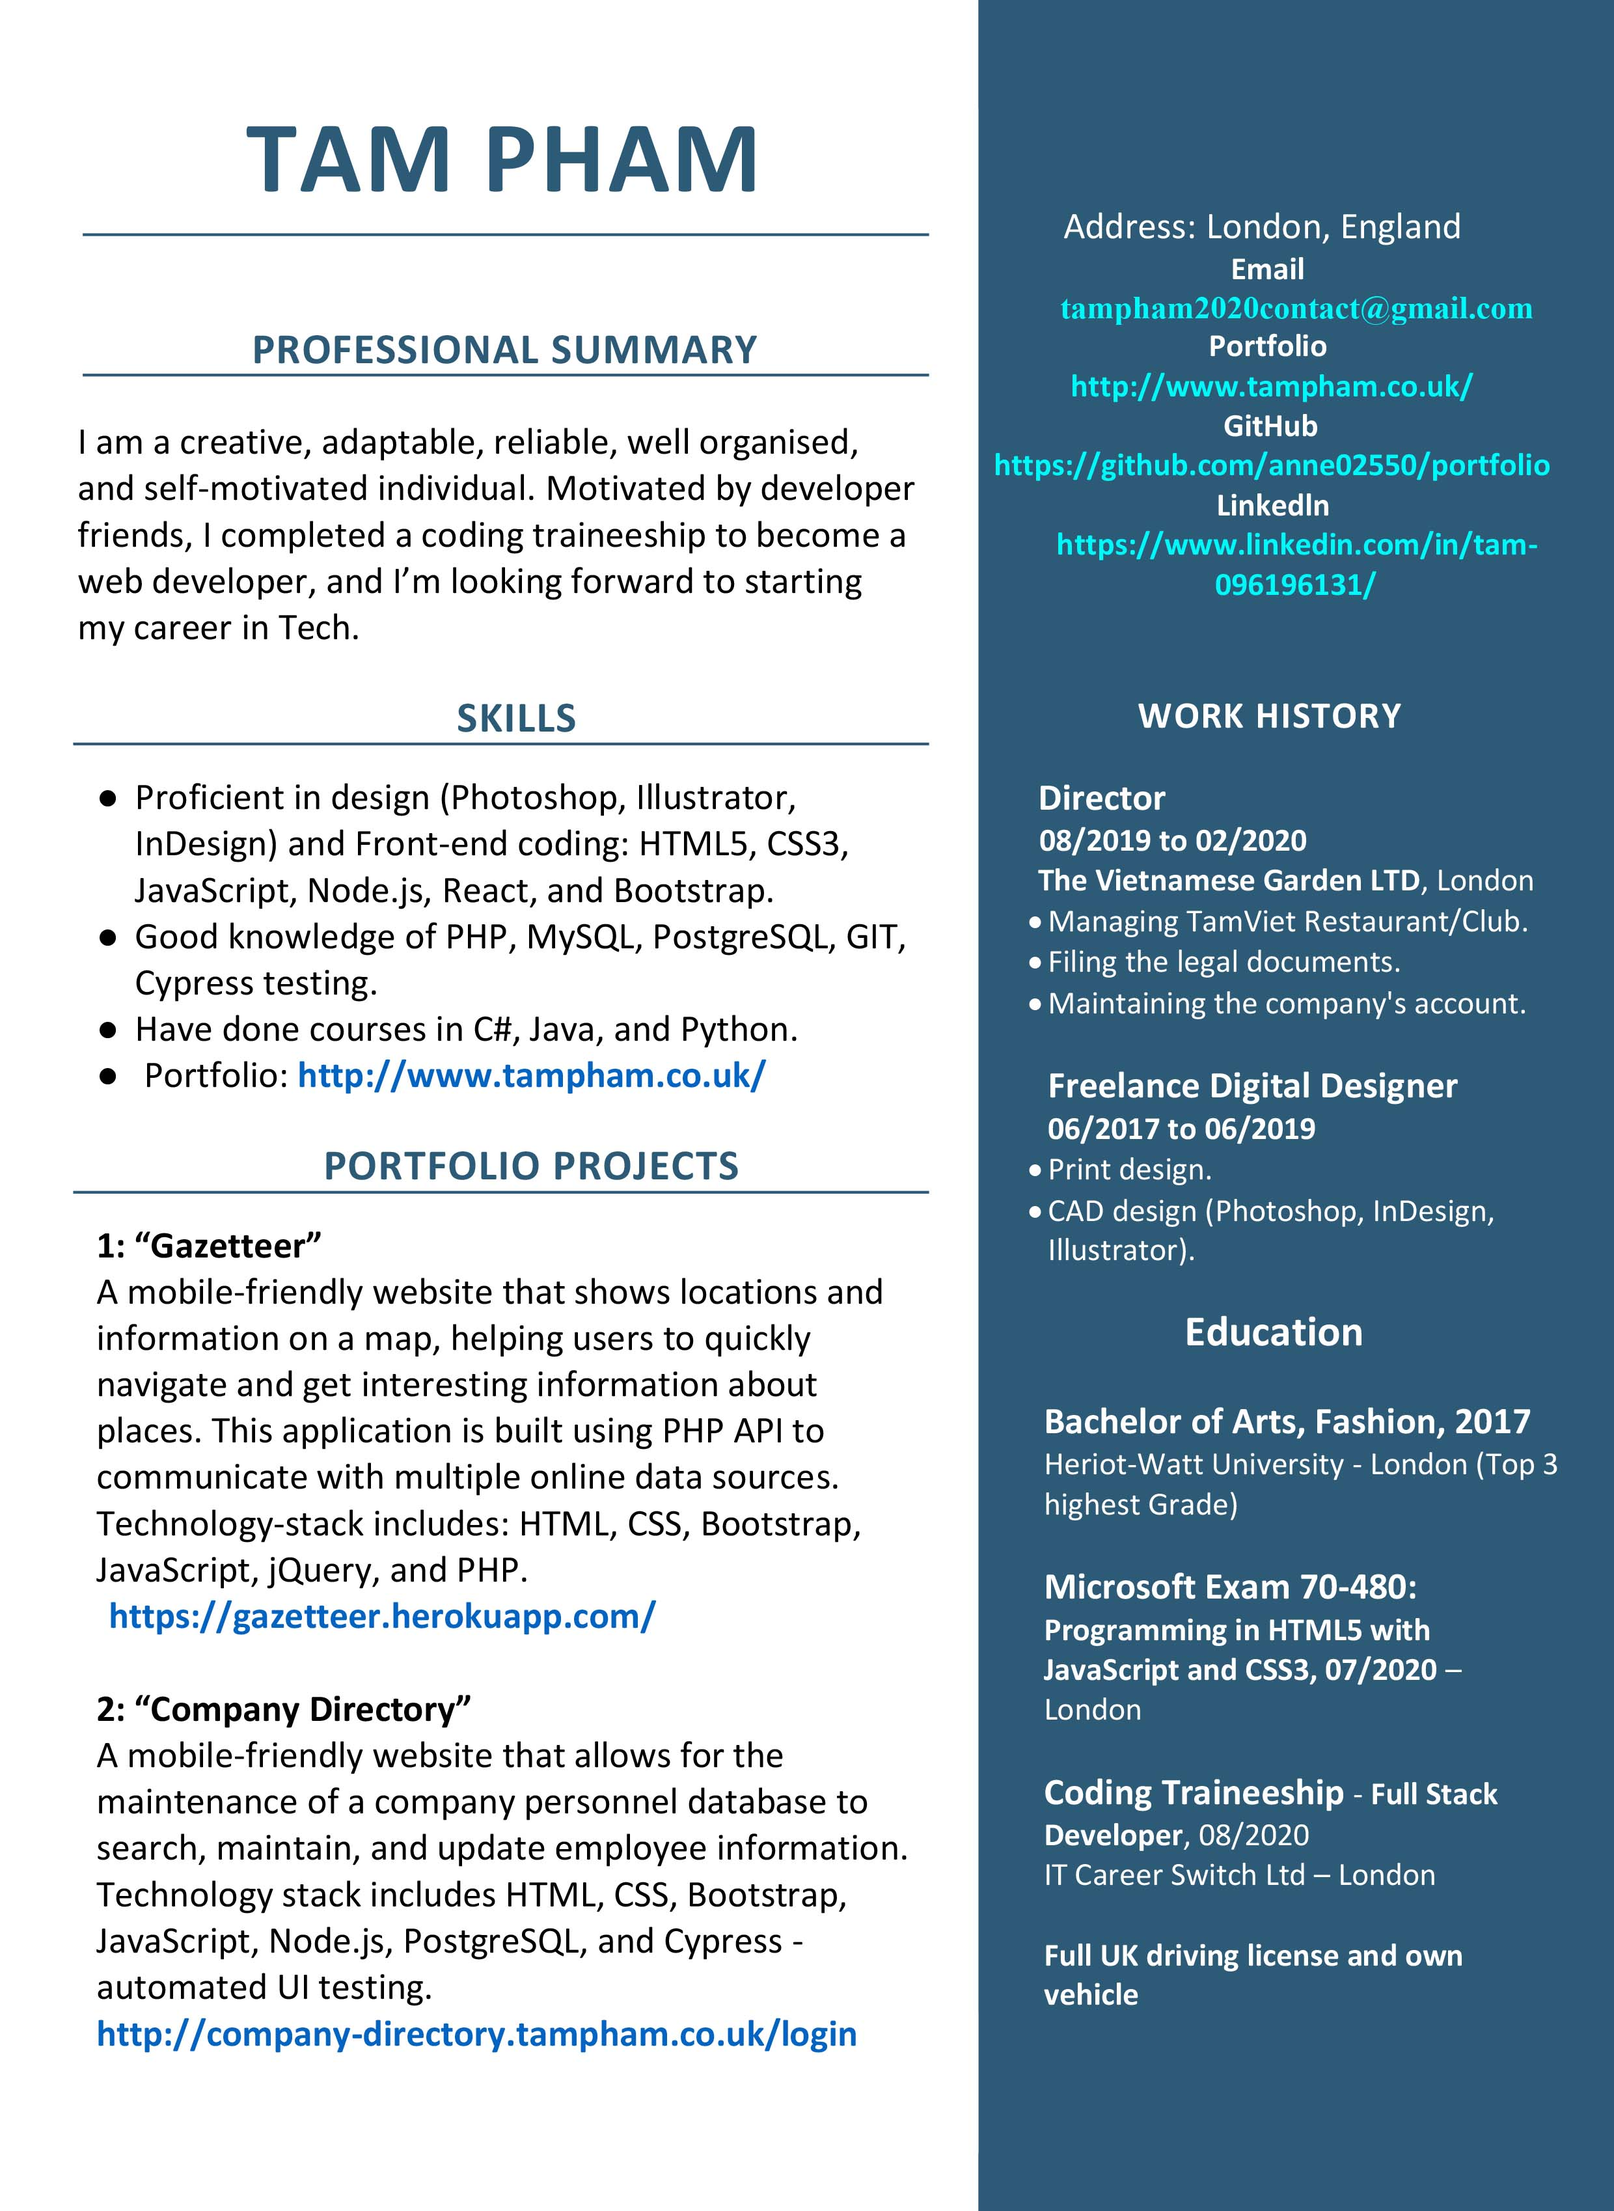
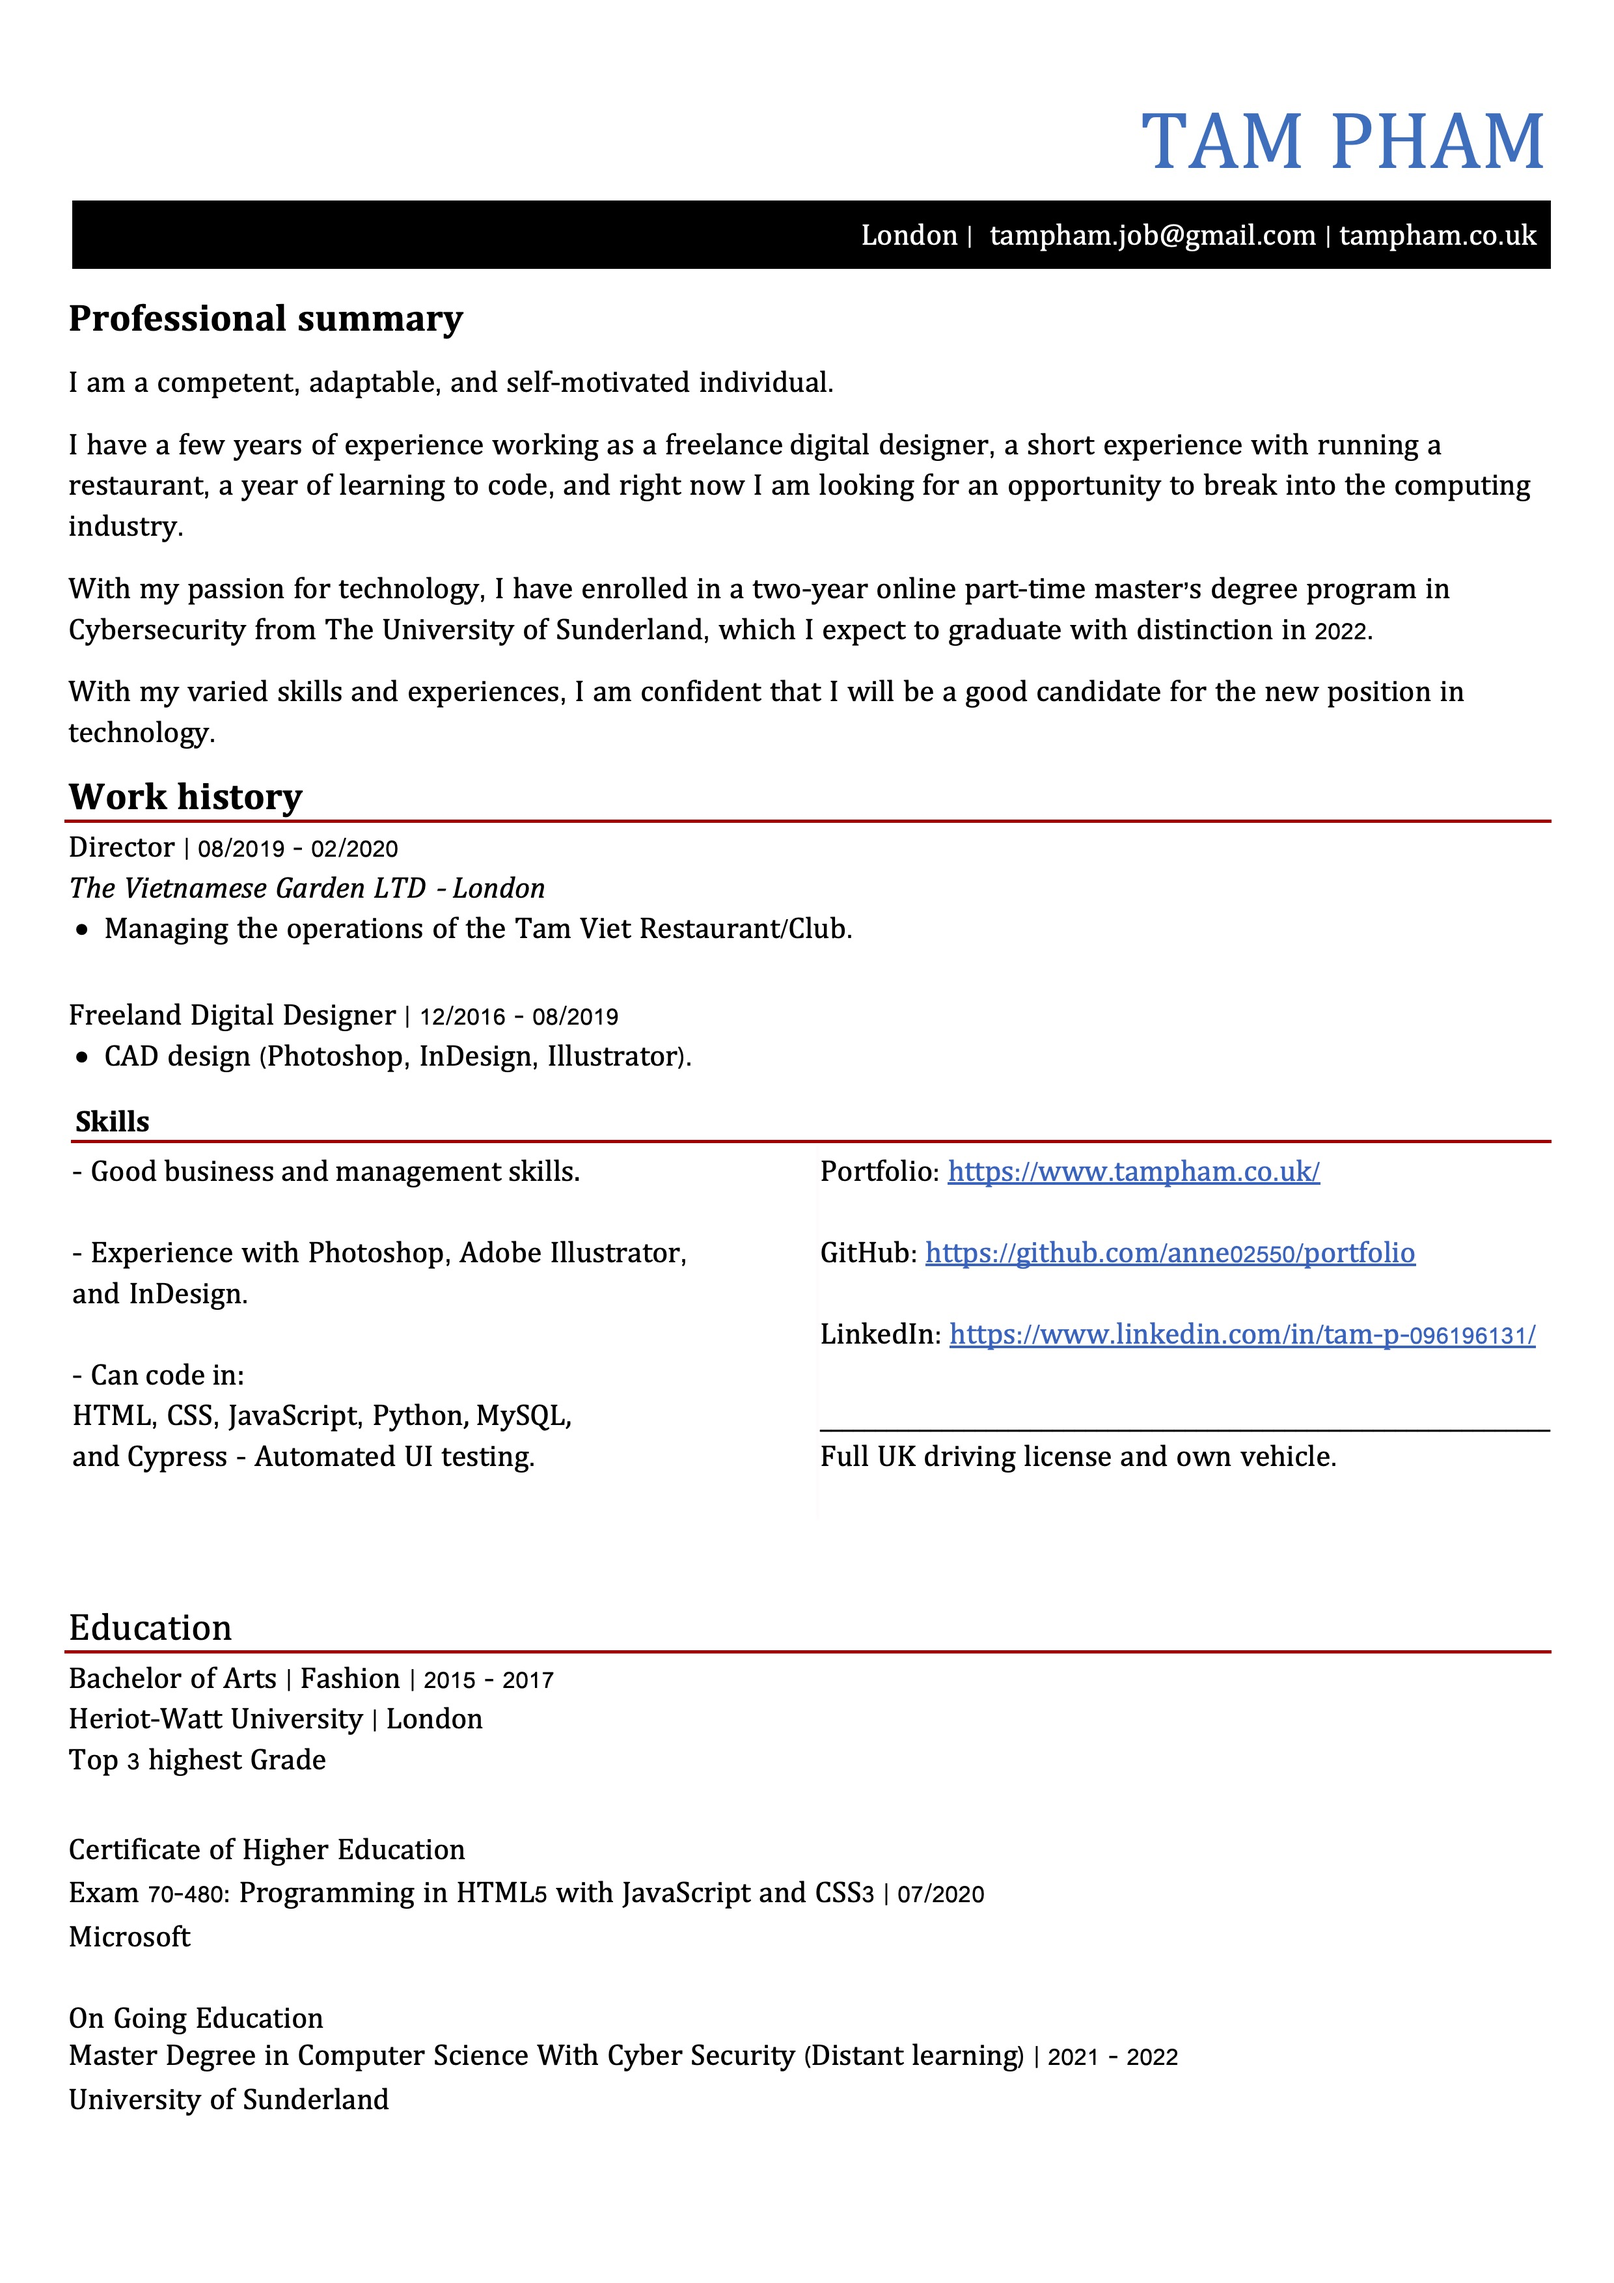
Updated with latest details and CV.

diff --git a/public/html/index.html b/public/html/index.html
@@ -115,18 +115,20 @@
                 <div class="p-5">
                 <h4 class="mb-5">Hi! I'm Tam</h4>
                   <p id="about">I am a web developer from London. 
-                  I started my career as a Fashion graduate who then worked as a digital designer for Code-K, 
-                  a luxury menswear brand and then set up a restaurant in Greenwich named "TamViet Restaurant".
+                  I started my career as a Fashion graduate who then worked as a freelance digital designer for two years, then set up a restaurant in Greenwich named "TamViet Restaurant".
                   </p>
                   <p>
-                  As a creative person who likes challenges, I have always been passionate about the potential of technology, 
-                  so I learned to code and finished a Full-stack Web Developer Traineeship.   
+                    As a creative person who likes challenges, I have always been passionate about the potential of technology.  
+                    During the lockdown, I learned to code, finished a Full-stack Web Developer Bootcamp,
+                     and enrolled in a part-time master's degree in Cyber Security at the University of Sunderland. 
+                     I'm expecting to graduate with distinction in December 2022. In the meantime, 
+                     I'm looking for any technical roles that would allow me to gain industry experience. 
                   </p>                   
                   <p>
                   Please check out my resume and Linkedln profile:
                   </p>                      
                   <ul class="ftco-footer-social list-unstyled mt-3">
-                    <li><a href="/public/img/cv.png" target="_blank">Resume</a></li>
+                    <li><a href="/public/img/TamPhamCv.jpg" target="_blank">Resume</a></li>
                     <br>
                     <li><a href="https://www.linkedin.com/in/tam-p-096196131/" target="_blank">Linkedln</a></li>
                   </ul>             
@@ -182,30 +184,7 @@
                  <p><a href="https://gazetteer.herokuapp.com/" target="_blank">View Project</a></p>
                  <p><a href="   https://github.com/anne02550/gazetteer" target="_blank"> View Git</a></p>        
             </div>
-          </div>   
-
-          <!-- new / print design SOTS-->
-          <div class="block-3 d-md-flex ftco-animate" data-scrollax-parent="true">
-            <a href="https://tam-design.herokuapp.com/" target="_blank" class="image order-2 d-flex justify-content-center align-items-center" data-scrollax=" properties: { translateY: '-30%'}">
-              <img src="public/img/9.png" width="550" height="500">             
-            </a>
-            <div class="text order-1">
-              <h4 class="subheading">Graphic and Fashion Design</h4>
-              <h2 class="heading">Print Design</h2>
-                <p>Before learning to code, I was a Restaurant owner, and before that, 
-                  I was a Freelance Designer.</p>
-                  <p>As a freelancer,  I was doing different projects, 
-                  such as designing business cards, board games, print, 
-                  and technical drawing for fashion collections. </p>
-                  <p>
-                  My most interesting work was the youthful print collection that I designed for SOTs.
-                  </p>
-                <p><a href="https://tam-design.herokuapp.com/" target="_blank">View Project</a></p>
-                <p><a href="https://github.com/anne02550/PortfolioLandingPage" target="_blank"> View Git</a></p>
-                
-            </div>
-          </div>
-        
+          </div>           
         </div>
       </div>
     </section>

diff --git a/public/html/resume.html b/public/html/resume.html
@@ -84,14 +84,17 @@
                   <h1 class="bold-text">About</h1>
                   <div class="p-5">
                   <h4 class="mb-5">Hi! I'm Tam</h4>
-                    <p id="about">I am a web developer from London. 
-                      I started my career as a Fashion graduate who then worked as a digital designer for Code-K, 
-                      a luxury menswear brand and then set up a restaurant in Greenwich named "TamViet Restaurant".
+                  <p id="about">I am a web developer from London. 
+                    I started my career as a Fashion graduate who then worked as a freelance digital designer for two years, then set up a restaurant in Greenwich named "TamViet Restaurant".
                     </p>
                     <p>
-                      As a creative person who likes challenges, I have always been passionate about the potential of technology, 
-                      so I learned to code and finished a Full-stack Web Developer Traineeship.   
-                    </p>  
+                      As a creative person who likes challenges, I have always been passionate about the potential of technology.  
+                      During the lockdown, I learned to code, finished a Full-stack Web Developer Bootcamp,
+                       and enrolled in a part-time master's degree in Cyber Security at the University of Sunderland. 
+                       I'm expecting to graduate with distinction in December 2022. In the meantime, 
+                       I'm looking for any technical roles that would allow me to gain industry experience. 
+                    </p>                   
+                    <p>
                     <p>
                       Please check out my resume and Linkedln profile:
                     </p>              

diff --git a/public/html/portfolio.html b/public/html/portfolio.html
@@ -114,30 +114,6 @@
                     <p><a href="https://github.com/anne02550/gazetteer" target="_blank"> View Git</a></p>  
                 </div>
               </div>
-
-               <!-- new / print design SOTS-->
-          <div class="block-3 d-md-flex ftco-animate" data-scrollax-parent="true">
-            <a href="https://tam-design.herokuapp.com/" target="_blank" class="image order-2 d-flex justify-content-center align-items-center" data-scrollax=" properties: { translateY: '-30%'}">
-              <img src="public/img/9.png" width="550" height="500">             
-            </a>
-            <div class="text order-1">
-              <h4 class="subheading">Graphic and Fashion Design</h4>
-              <h2 class="heading">Print Design</h2>
-                <p>Before learning to code, I was a Restaurant owner, and before that, 
-                  I was a Freelance Designer.</p>
-                  <p>As a freelancer,  I was doing different projects, 
-                  such as designing business cards, board games, print, 
-                  and technical drawing for fashion collections. </p>
-                  <p>
-                  My most interesting work was the youthful print collection that I designed for SOTs.
-                  </p>
-                <p><a href="https://tam-design.herokuapp.com/" target="_blank">View Project</a></p>
-                <p><a href="https://github.com/anne02550/PortfolioLandingPage" target="_blank"> View Git</a></p>
-                
-            </div>
-          </div>
-
-
             </div>
           </div>
         </section>
